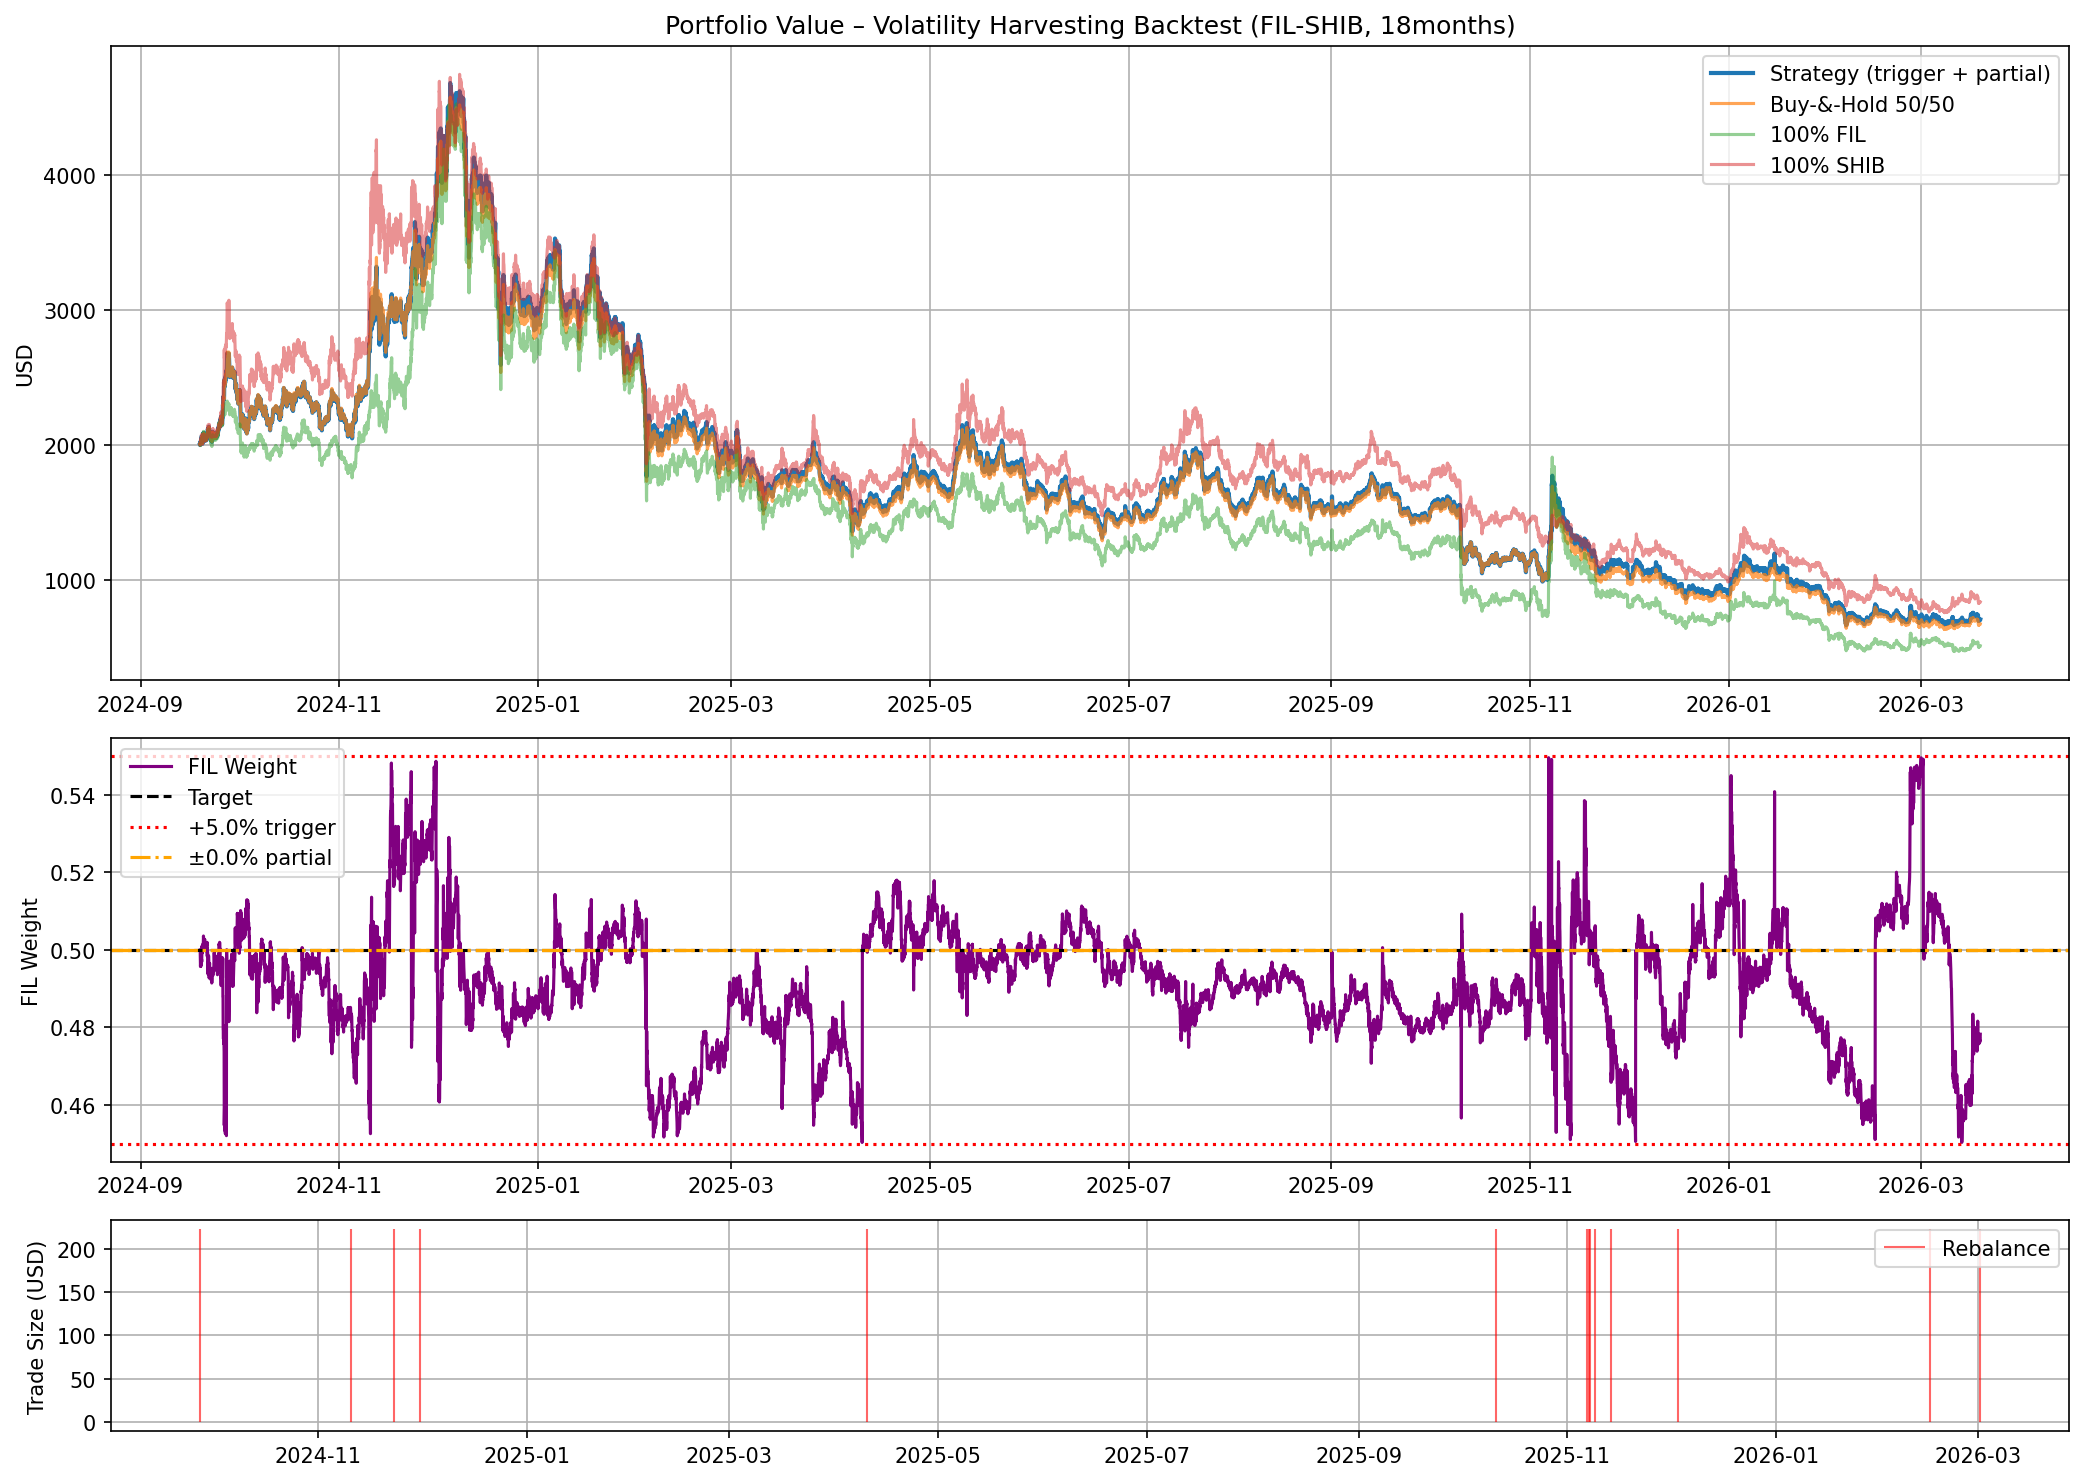
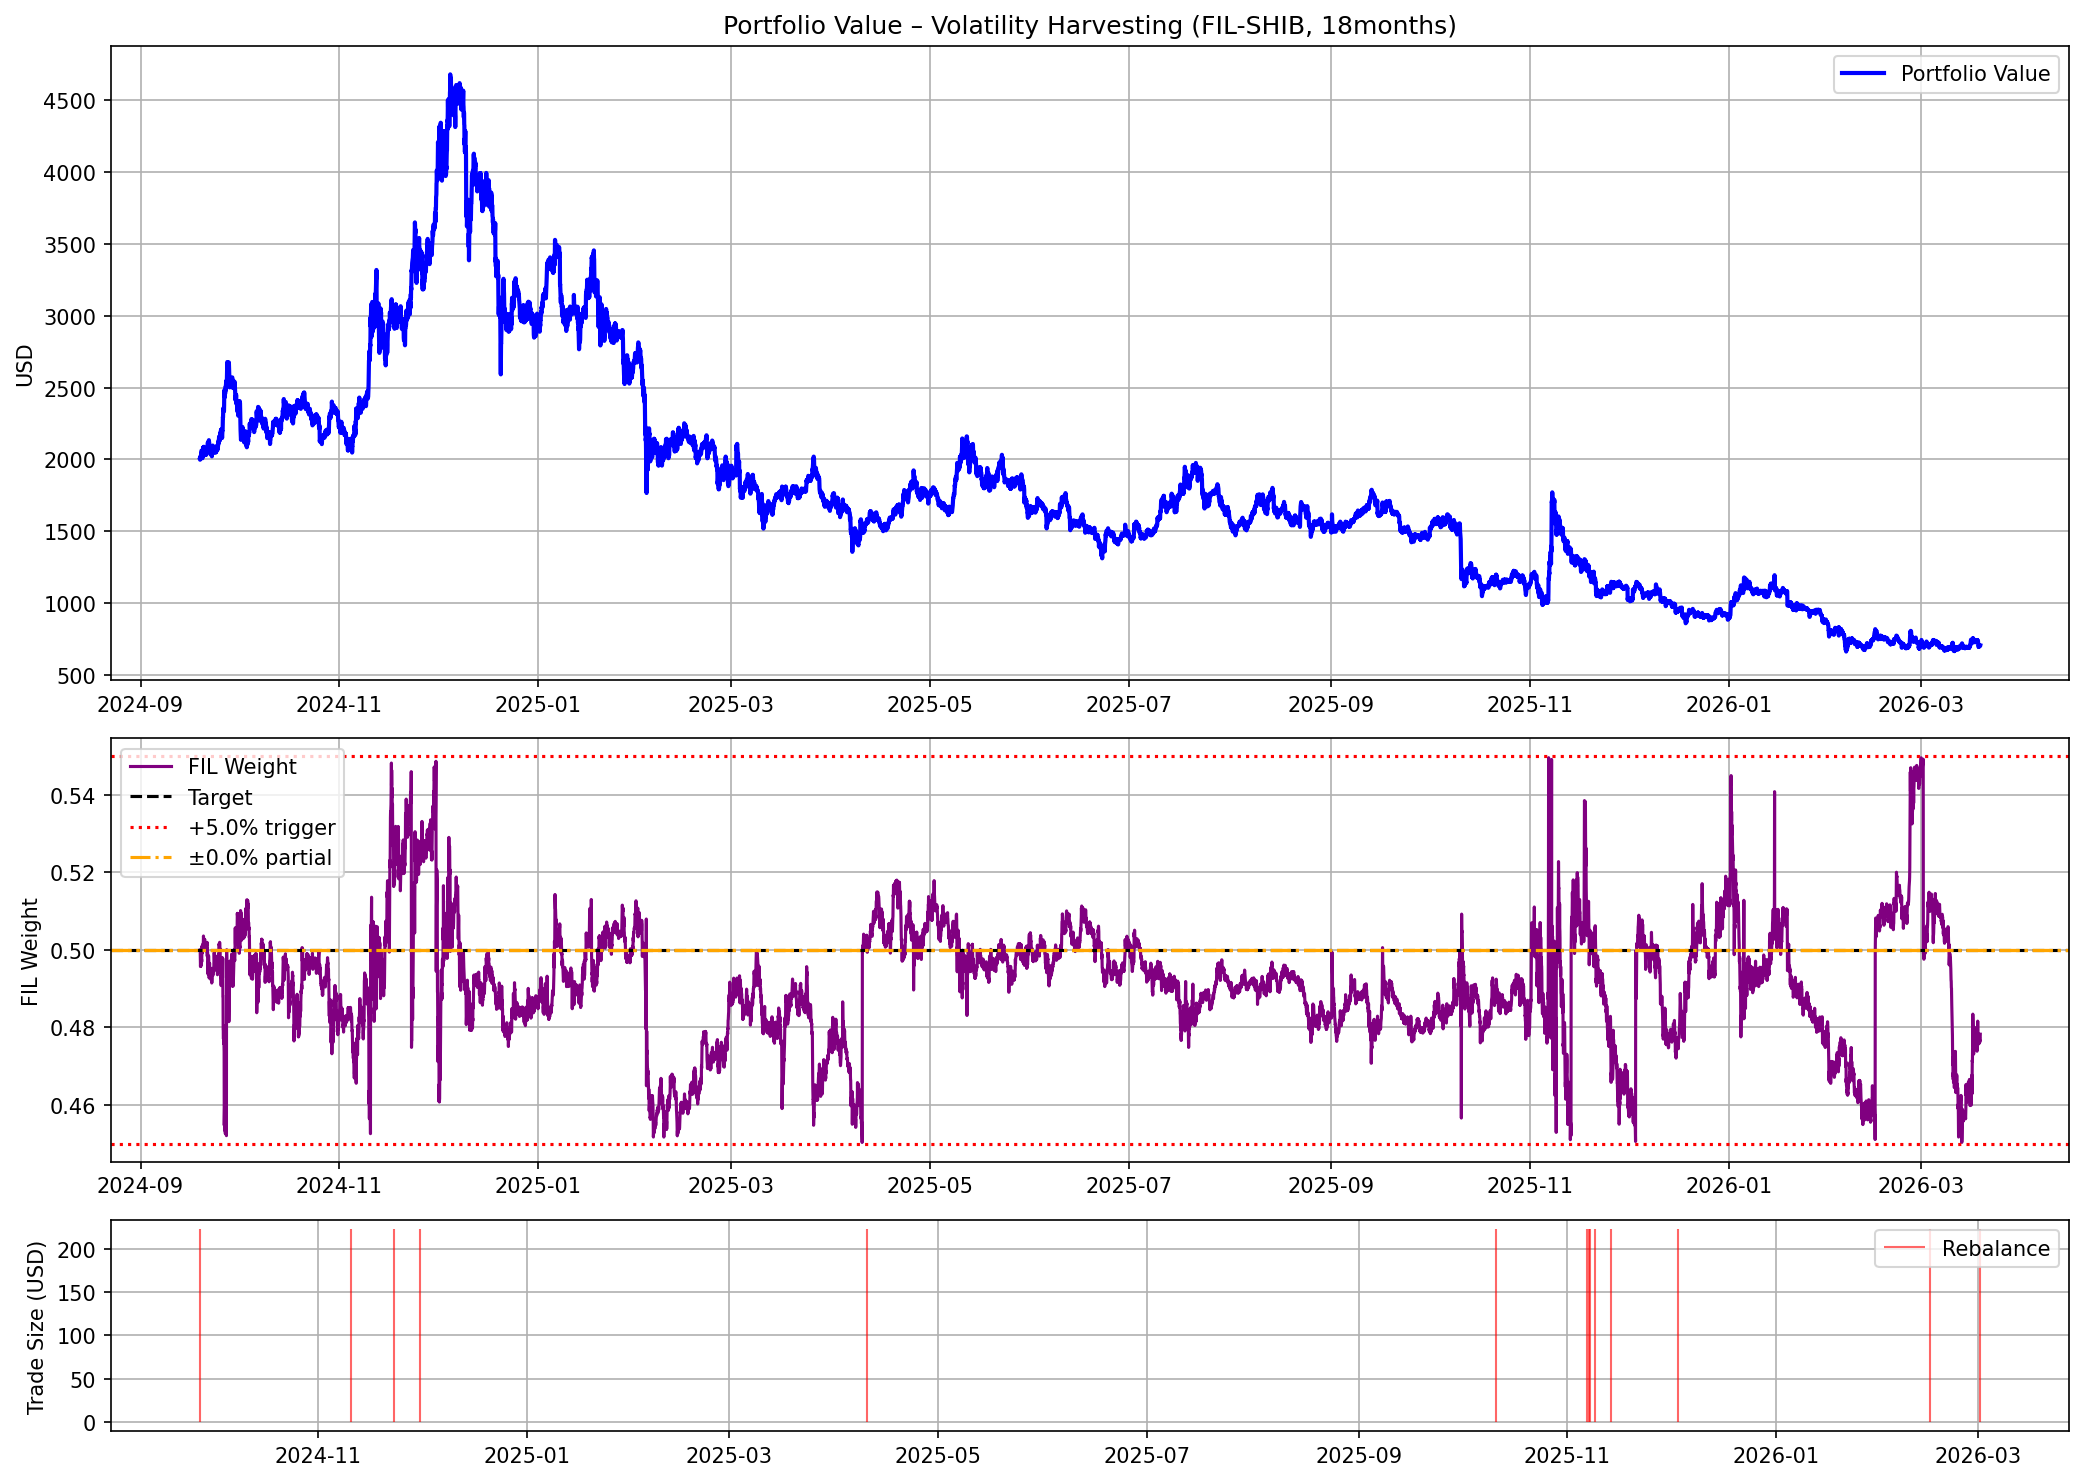
fine tuning

diff --git a/src/pcv2/backtester.py b/src/pcv2/backtester.py
@@ -70,7 +70,7 @@ class VolatilityHarvestingBacktester:
         print(f"Total bars: {len(self.data):,}")
 
     def run_backtest(self):
-        """Run the full volatility-harvesting backtest."""
+        """Run the volatility-harvesting rebalancing backtest (only this portfolio)."""
         self.load_and_prepare_data()
         
         # ====================== BACKTEST ENGINE ======================
@@ -136,15 +136,7 @@ class VolatilityHarvestingBacktester:
                 self.portfolio.loc[ts, 'shares_a'] = shares_a
                 self.portfolio.loc[ts, 'shares_b'] = shares_b
 
-        # ====================== BENCHMARKS ======================
-        bh_shares_a = (self.initial_capital * self.target_weight_a) / self.data[self.col_a].iloc[0]
-        bh_shares_b = (self.initial_capital * (1 - self.target_weight_a)) / self.data[self.col_b].iloc[0]
-        self.portfolio['bh_value'] = bh_shares_a * self.portfolio[self.col_a] + bh_shares_b * self.portfolio[self.col_b]
-
-        self.portfolio['a_only'] = self.initial_capital * (self.portfolio[self.col_a] / self.data[self.col_a].iloc[0])
-        self.portfolio['b_only'] = self.initial_capital * (self.portfolio[self.col_b] / self.data[self.col_b].iloc[0])
-
-        # ====================== TOKEN HOLDINGS (now with blue circle highlight) ======================
+        # ====================== TOKEN HOLDINGS ======================
         self._print_token_holdings()
 
         # ====================== PERFORMANCE METRICS ======================
@@ -202,7 +194,7 @@ class VolatilityHarvestingBacktester:
         print(f"  🔵 Total {self.asset_b}-equivalent     : {final_total_b:,.6f} {self.asset_b}")
 
     def _calculate_metrics(self):
-        """Compute all performance metrics (unchanged)."""
+        """Compute metrics for the rebalancing portfolio only."""
         def cagr(series):
             days = (series.index[-1] - series.index[0]).days
             return (series.iloc[-1] / series.iloc[0]) ** (365.25 / days) - 1
@@ -212,51 +204,46 @@ class VolatilityHarvestingBacktester:
             drawdown = (series - peak) / peak
             return drawdown.min()
 
-        self.metrics = pd.DataFrame(index=['Strategy', f'{self.asset_a}_100%', f'{self.asset_b}_100%', 'BuyHold_50/50'])
+        s = self.portfolio['total_value']
+        final_val = s.iloc[-1]
         
-        for col, name in [('total_value', 'Strategy'),
-                          ('a_only', f'{self.asset_a}_100%'),
-                          ('b_only', f'{self.asset_b}_100%'),
-                          ('bh_value', 'BuyHold_50/50')]:
-            s = self.portfolio[col]
-            final_val = s.iloc[-1]
-            
-            end_price_a = self.data[self.col_a].iloc[-1]
-            end_price_b = self.data[self.col_b].iloc[-1]
-            final_a_eq = final_val / end_price_a
-            final_b_eq = final_val / end_price_b
-            
-            self.metrics.loc[name, 'Final Value (USD)'] = final_val
-            self.metrics.loc[name, 'Total Return (%)'] = ((final_val / self.initial_capital) - 1) * 100
-            self.metrics.loc[name, 'CAGR (%)'] = cagr(s) * 100
-            self.metrics.loc[name, 'Max DD (%)'] = max_dd(s) * 100
-            self.metrics.loc[name, 'Vol (ann.)'] = s.pct_change().std() * np.sqrt(365.25 * 24) * 100
-            self.metrics.loc[name, 'Sharpe (rf=0)'] = (s.pct_change().mean() / s.pct_change().std()) * np.sqrt(365.25 * 24)
-            
-            start_a_eq = self.initial_capital / self.data[self.col_a].iloc[0]
-            start_b_eq = self.initial_capital / self.data[self.col_b].iloc[0]
-            self.metrics.loc[name, f'Final {self.asset_b} equiv'] = final_b_eq
-            self.metrics.loc[name, f'{self.asset_b} equiv growth (%)'] = ((final_b_eq / start_b_eq) - 1) * 100
-            self.metrics.loc[name, f'Final {self.asset_a} equiv'] = final_a_eq
-            self.metrics.loc[name, f'{self.asset_a} equiv growth (%)'] = ((final_a_eq / start_a_eq) - 1) * 100
+        end_price_a = self.data[self.col_a].iloc[-1]
+        end_price_b = self.data[self.col_b].iloc[-1]
+        final_a_eq = final_val / end_price_a
+        final_b_eq = final_val / end_price_b
+        
+        start_a_eq = self.initial_capital / self.data[self.col_a].iloc[0]
+        start_b_eq = self.initial_capital / self.data[self.col_b].iloc[0]
+        
+        self.metrics = pd.DataFrame(index=[''])
+        
+        self.metrics.loc['', 'Final Value (USD)'] = final_val
+        self.metrics.loc['', 'Total Return (%)'] = ((final_val / self.initial_capital) - 1) * 100
+        self.metrics.loc['', 'CAGR (%)'] = cagr(s) * 100
+        self.metrics.loc['', 'Max DD (%)'] = max_dd(s) * 100
+        self.metrics.loc['', 'Vol (ann.)'] = s.pct_change().std() * np.sqrt(365.25 * 24) * 100
+        self.metrics.loc['', 'Sharpe (rf=0)'] = (s.pct_change().mean() / s.pct_change().std()) * np.sqrt(365.25 * 24)
+        
+        self.metrics.loc['', f'Final {self.asset_a} equiv'] = final_a_eq
+        self.metrics.loc['', f'{self.asset_a} equiv growth (%)'] = ((final_a_eq / start_a_eq) - 1) * 100
+        self.metrics.loc['', f'Final {self.asset_b} equiv'] = final_b_eq
+        self.metrics.loc['', f'{self.asset_b} equiv growth (%)'] = ((final_b_eq / start_b_eq) - 1) * 100
 
     def _print_results(self):
-        """Print metrics table and rebalance summary."""
+        """Print clean results (no labels, no benchmarks)."""
         print("\n=== BACKTEST RESULTS ===")
-        print(self.metrics.round(2))
+        # Print table without any row label on the left
+        print(self.metrics.round(2).to_string(index=False))
 
         print(f"\nRebalances triggered: {self.portfolio['rebalance'].sum():,} "
               f"({self.portfolio['trade'].sum():,.0f} USD total volume traded)")
 
     def plot_results(self):
-        """Generate the three-panel plot (unchanged)."""
+        """Generate simplified three-panel plot (only the rebalancing portfolio)."""
         fig, axs = plt.subplots(3, 1, figsize=(14, 10), height_ratios=[3, 2, 1])
 
-        axs[0].plot(self.portfolio['total_value'], label='Strategy (trigger + partial)', linewidth=2)
-        axs[0].plot(self.portfolio['bh_value'], label='Buy-&-Hold 50/50', alpha=0.7)
-        axs[0].plot(self.portfolio['a_only'], label=f'100% {self.asset_a}', alpha=0.5)
-        axs[0].plot(self.portfolio['b_only'], label=f'100% {self.asset_b}', alpha=0.5)
-        axs[0].set_title(f'Portfolio Value – Volatility Harvesting Backtest ({self.asset_a}-{self.asset_b}, {self.months_str})')
+        axs[0].plot(self.portfolio['total_value'], label='Portfolio Value', linewidth=2, color='blue')
+        axs[0].set_title(f'Portfolio Value – Volatility Harvesting ({self.asset_a}-{self.asset_b}, {self.months_str})')
         axs[0].set_ylabel('USD')
         axs[0].legend()
         axs[0].grid(True)
@@ -289,7 +276,7 @@ if __name__ == "__main__":
     import argparse
 
     parser = argparse.ArgumentParser(
-        description='Volatility Harvesting Backtester – run any asset pair and time period directly from the terminal',
+        description='Volatility Harvesting Backtester – clean rebalancing-only version',
         formatter_class=argparse.ArgumentDefaultsHelpFormatter
     )
 
@@ -304,7 +291,7 @@ if __name__ == "__main__":
                         help='Target weight for Asset A (0.0–1.0)')
     parser.add_argument('--outer-buffer', type=float, default=0.05,
                         help='Outer rebalance trigger buffer (as decimal)')
-    parser.add_argument('--inner-rebalance-dev', type=float, default=0.0, # 0 buffer by default
+    parser.add_argument('--inner-rebalance-dev', type=float, default=0.0,
                         help='Inner partial rebalance deviation (as decimal)')
     parser.add_argument('--initial-capital', type=float, default=2000.0,
                         help='Starting capital in USD')

diff --git a/src/pcv2/filter_by_volume.py b/src/pcv2/filter_by_volume.py
@@ -8,7 +8,7 @@ from datetime import datetime
 
 # ====================== CONFIG (change these!) ======================
 PERCENTILE = 80
-MIN_VOLUME_RATIO = 0.20
+MIN_VOLUME_RATIO = 0.35
 VOLUME_CACHE_FILE = "mexc_kucoin_volume.csv" 
 # ===========================================================================
 
